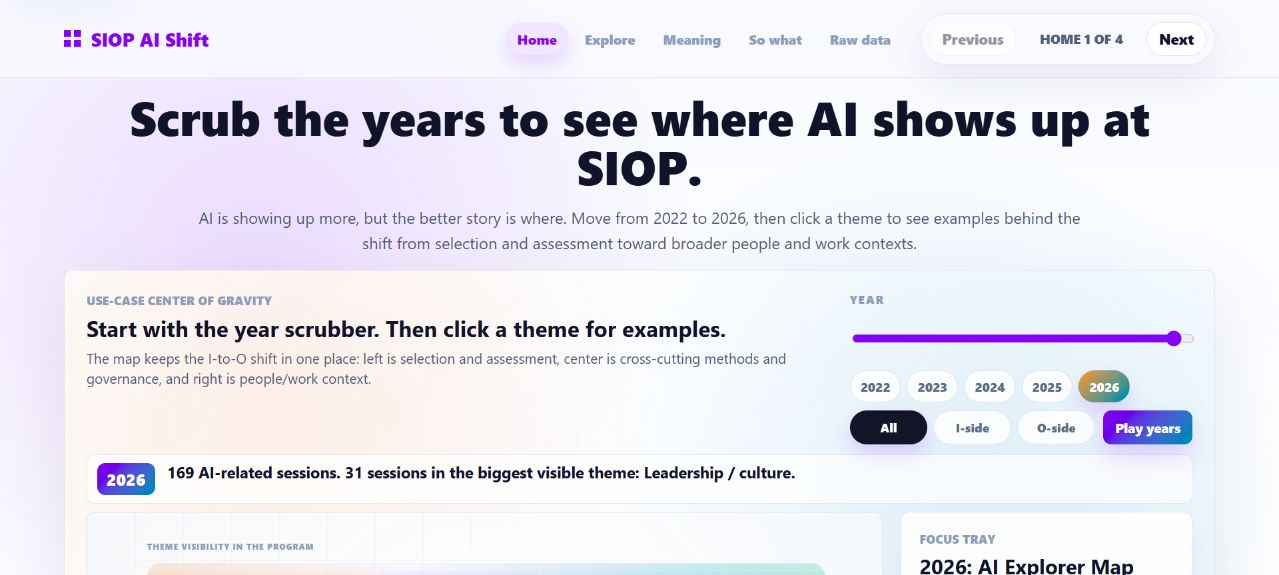
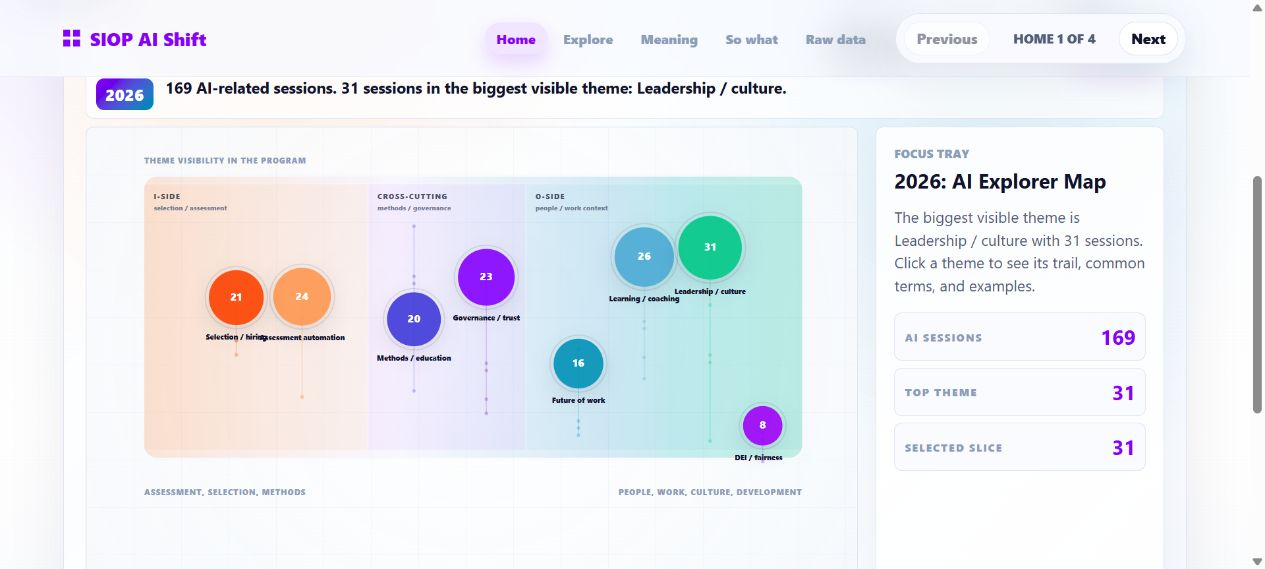
Frame SIOP preview around the chart and interpretation

diff --git a/README.md b/README.md
@@ -6,7 +6,7 @@ This project looks at public session information from the Society for Industrial
 
 **[Open the interactive visualization](https://tristowww.github.io/siop-conference-data-viz/)** · [Explore the saved data](app/data/siop_ai_story.json) · [Data workflow and build notes](docs/DEVELOPMENT.md)
 
-[![SIOP AI Explorer Map showing the 2026 theme bubbles, year controls, and focus tray](docs/siop-explorer-preview.jpg)](https://tristowww.github.io/siop-conference-data-viz/)
+[![SIOP AI Explorer Map showing the 2026 theme bubbles, I/O context labels, and focus tray](docs/siop-explorer-preview.jpg)](https://tristowww.github.io/siop-conference-data-viz/)
 
 ## A quick read of the saved results
 
